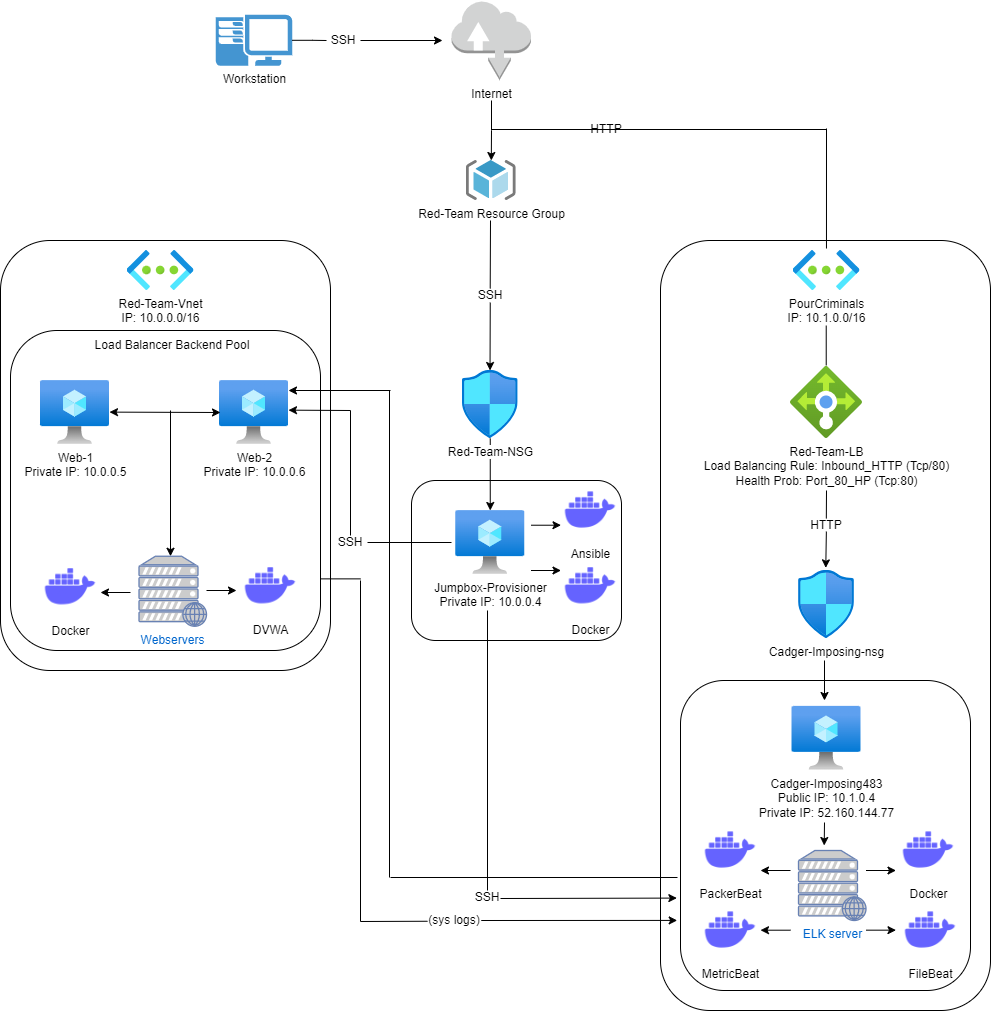
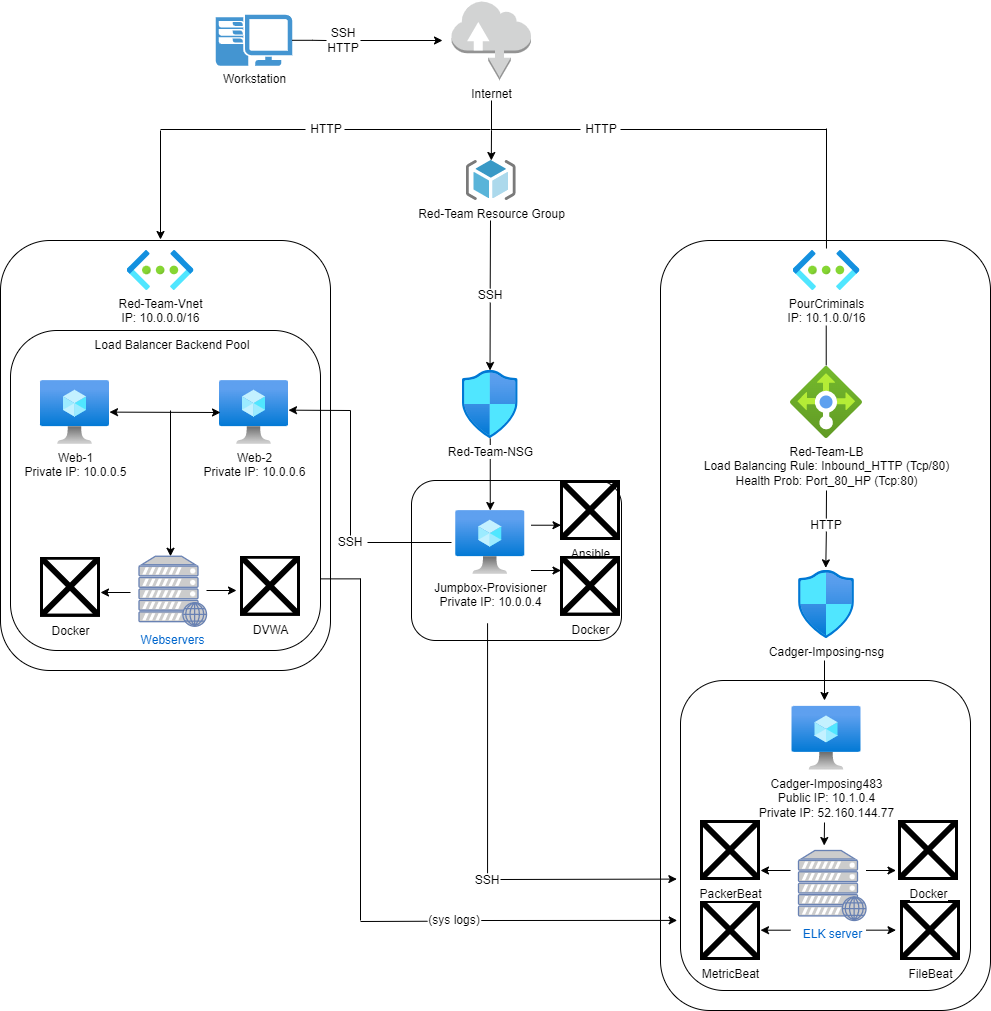
README_Cleanup_7 2.02.22

diff --git a/README.md b/README.md
@@ -253,14 +253,9 @@ In order to use the playbook, you will need to have an Ansible control node alre
 
 SSH into the control node and follow the steps below:
 - Copy the playbook file to ansible control node.
-- Update the _____ file to include...
-- Run the playbook, and navigate to ____ to check that the installation worked as expected.
-
-_TODO: Answer the following questions to fill in the blanks:_
-- _Which file is the playbook? Where do you copy it?_
-- _Which file do you update to make Ansible run the playbook on a specific machine? How do I specify which machine to install the ELK server on versus which to install Filebeat on?_
-- _Which URL do you navigate to in order to check that the ELK server is running?
-
+- Update the Hosts file to include the ip Addresses.
+- Run the playbook, and navigate to /etc/ansible to check that the installation worked as expected.
+- Specify which Machines Ansible will run on by simply editing the hosts file located in /etc/ansible/hosts.  Make sure that the "webservers" has the correct IP addresses listed and that under "ELk" you have the correct IP listed for that machine as well.
 
 In order to use the playbooks, you will need to have an Ansible control node already configured. We use the jump box for this purpose.
 To use the playbooks, we must perform the following steps:
@@ -277,8 +272,7 @@ $ mkdir files
 # Clone Repository + IaC Files
 $ git clone https://github.com/CheekyRetort/Cloud_Security.git
 # Move Playbooks and hosts file Into `/etc/ansible`
-$ cp project-1/playbooks/* .
-$ cp project-1/files/* ./files
+$ cp Cloud_Security/Ansible/* .
 ```
 
 
@@ -306,4 +300,4 @@ $ ansible-playbook Inistall-FileBeat_MetricBeat.yml webservers
 ```
 
 To verify success, wait five minutes to give ELK time to start up.
-Then, run: curl http://10.1.0.4:5601. This is the address of Kibana. If the installation succeeded, this command should print HTML to the console.
+Navigate to http://[your.ELK-VM.External.IP]:5601/app/kibana and then if everything is configured it should load the web page.
